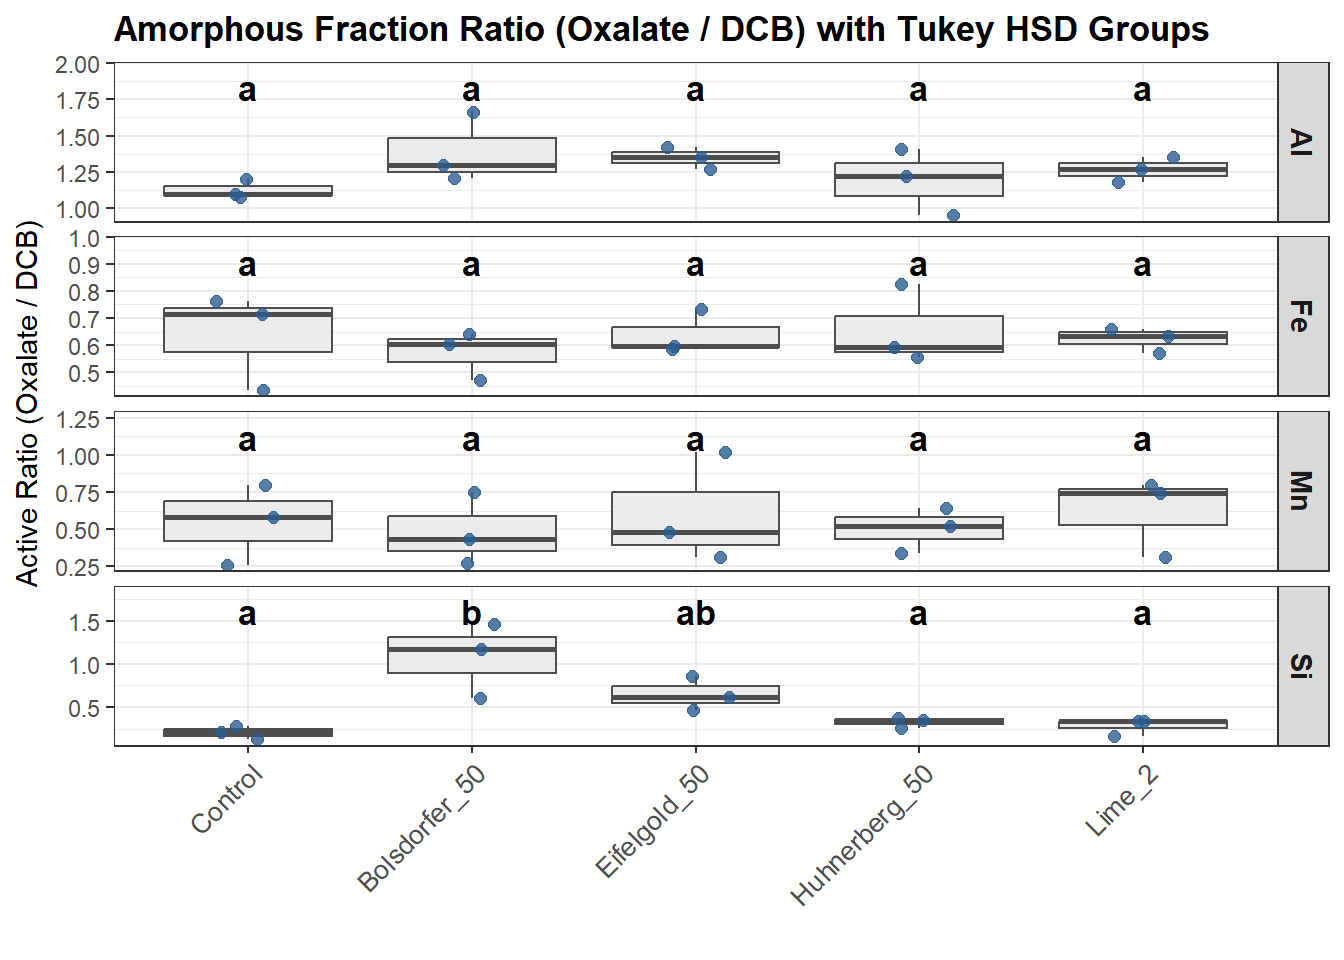
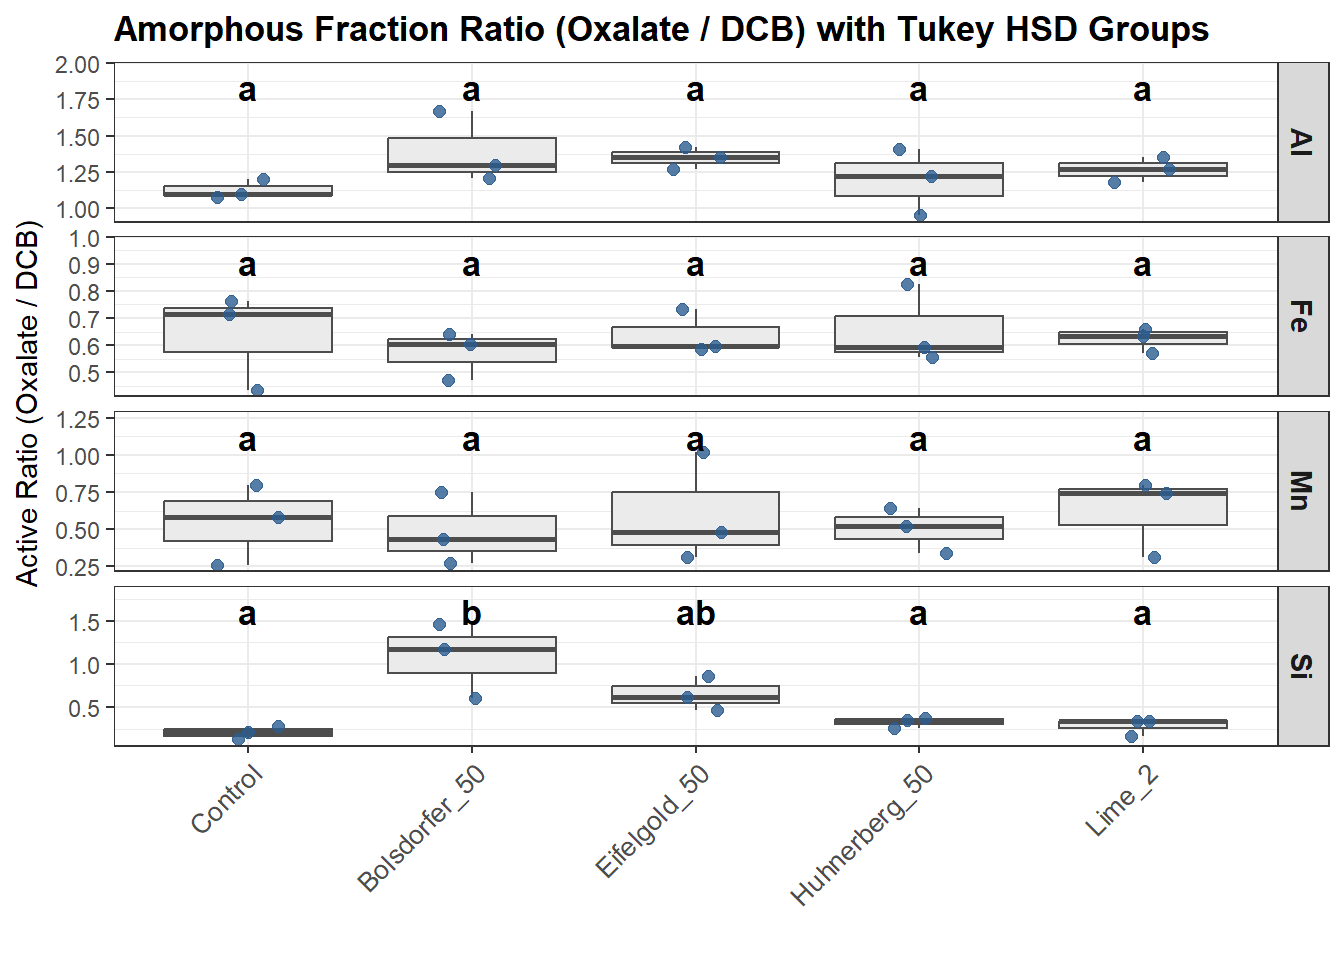
Moved qmd files

diff --git a/docs/dcb_oxalate_combined.html b/docs/dcb_oxalate_combined.html
@@ -74,6 +74,7 @@ ul.task-list li input[type="checkbox"] {
 </section>
 <section id="dcb--and-oxalate-extractable-metalloid-content-of-different-treatments" class="level2">
 <h2 class="anchored" data-anchor-id="dcb--and-oxalate-extractable-metalloid-content-of-different-treatments">DCB- and oxalate-extractable metal(loid) content of different treatments</h2>
+<p>We observe more oxalate-extractable metals released from Bolsdorfer treatment, especially Si. In the dose-response experiment, Huhnerberg dose response clearly shows oxalate-extractable Al &amp; Mn decrease, probably going into more crystalline mineral formation or Al is substituting for Fe in poorly-crystalline ferrihydrite (formed after Fe released from basalt, is oxidized) and Mn is sorbing to ferrihydrite or forming its own/ mixed oxides.</p>
 <div class="cell">
 <div class="cell-output-display">
 <div>
